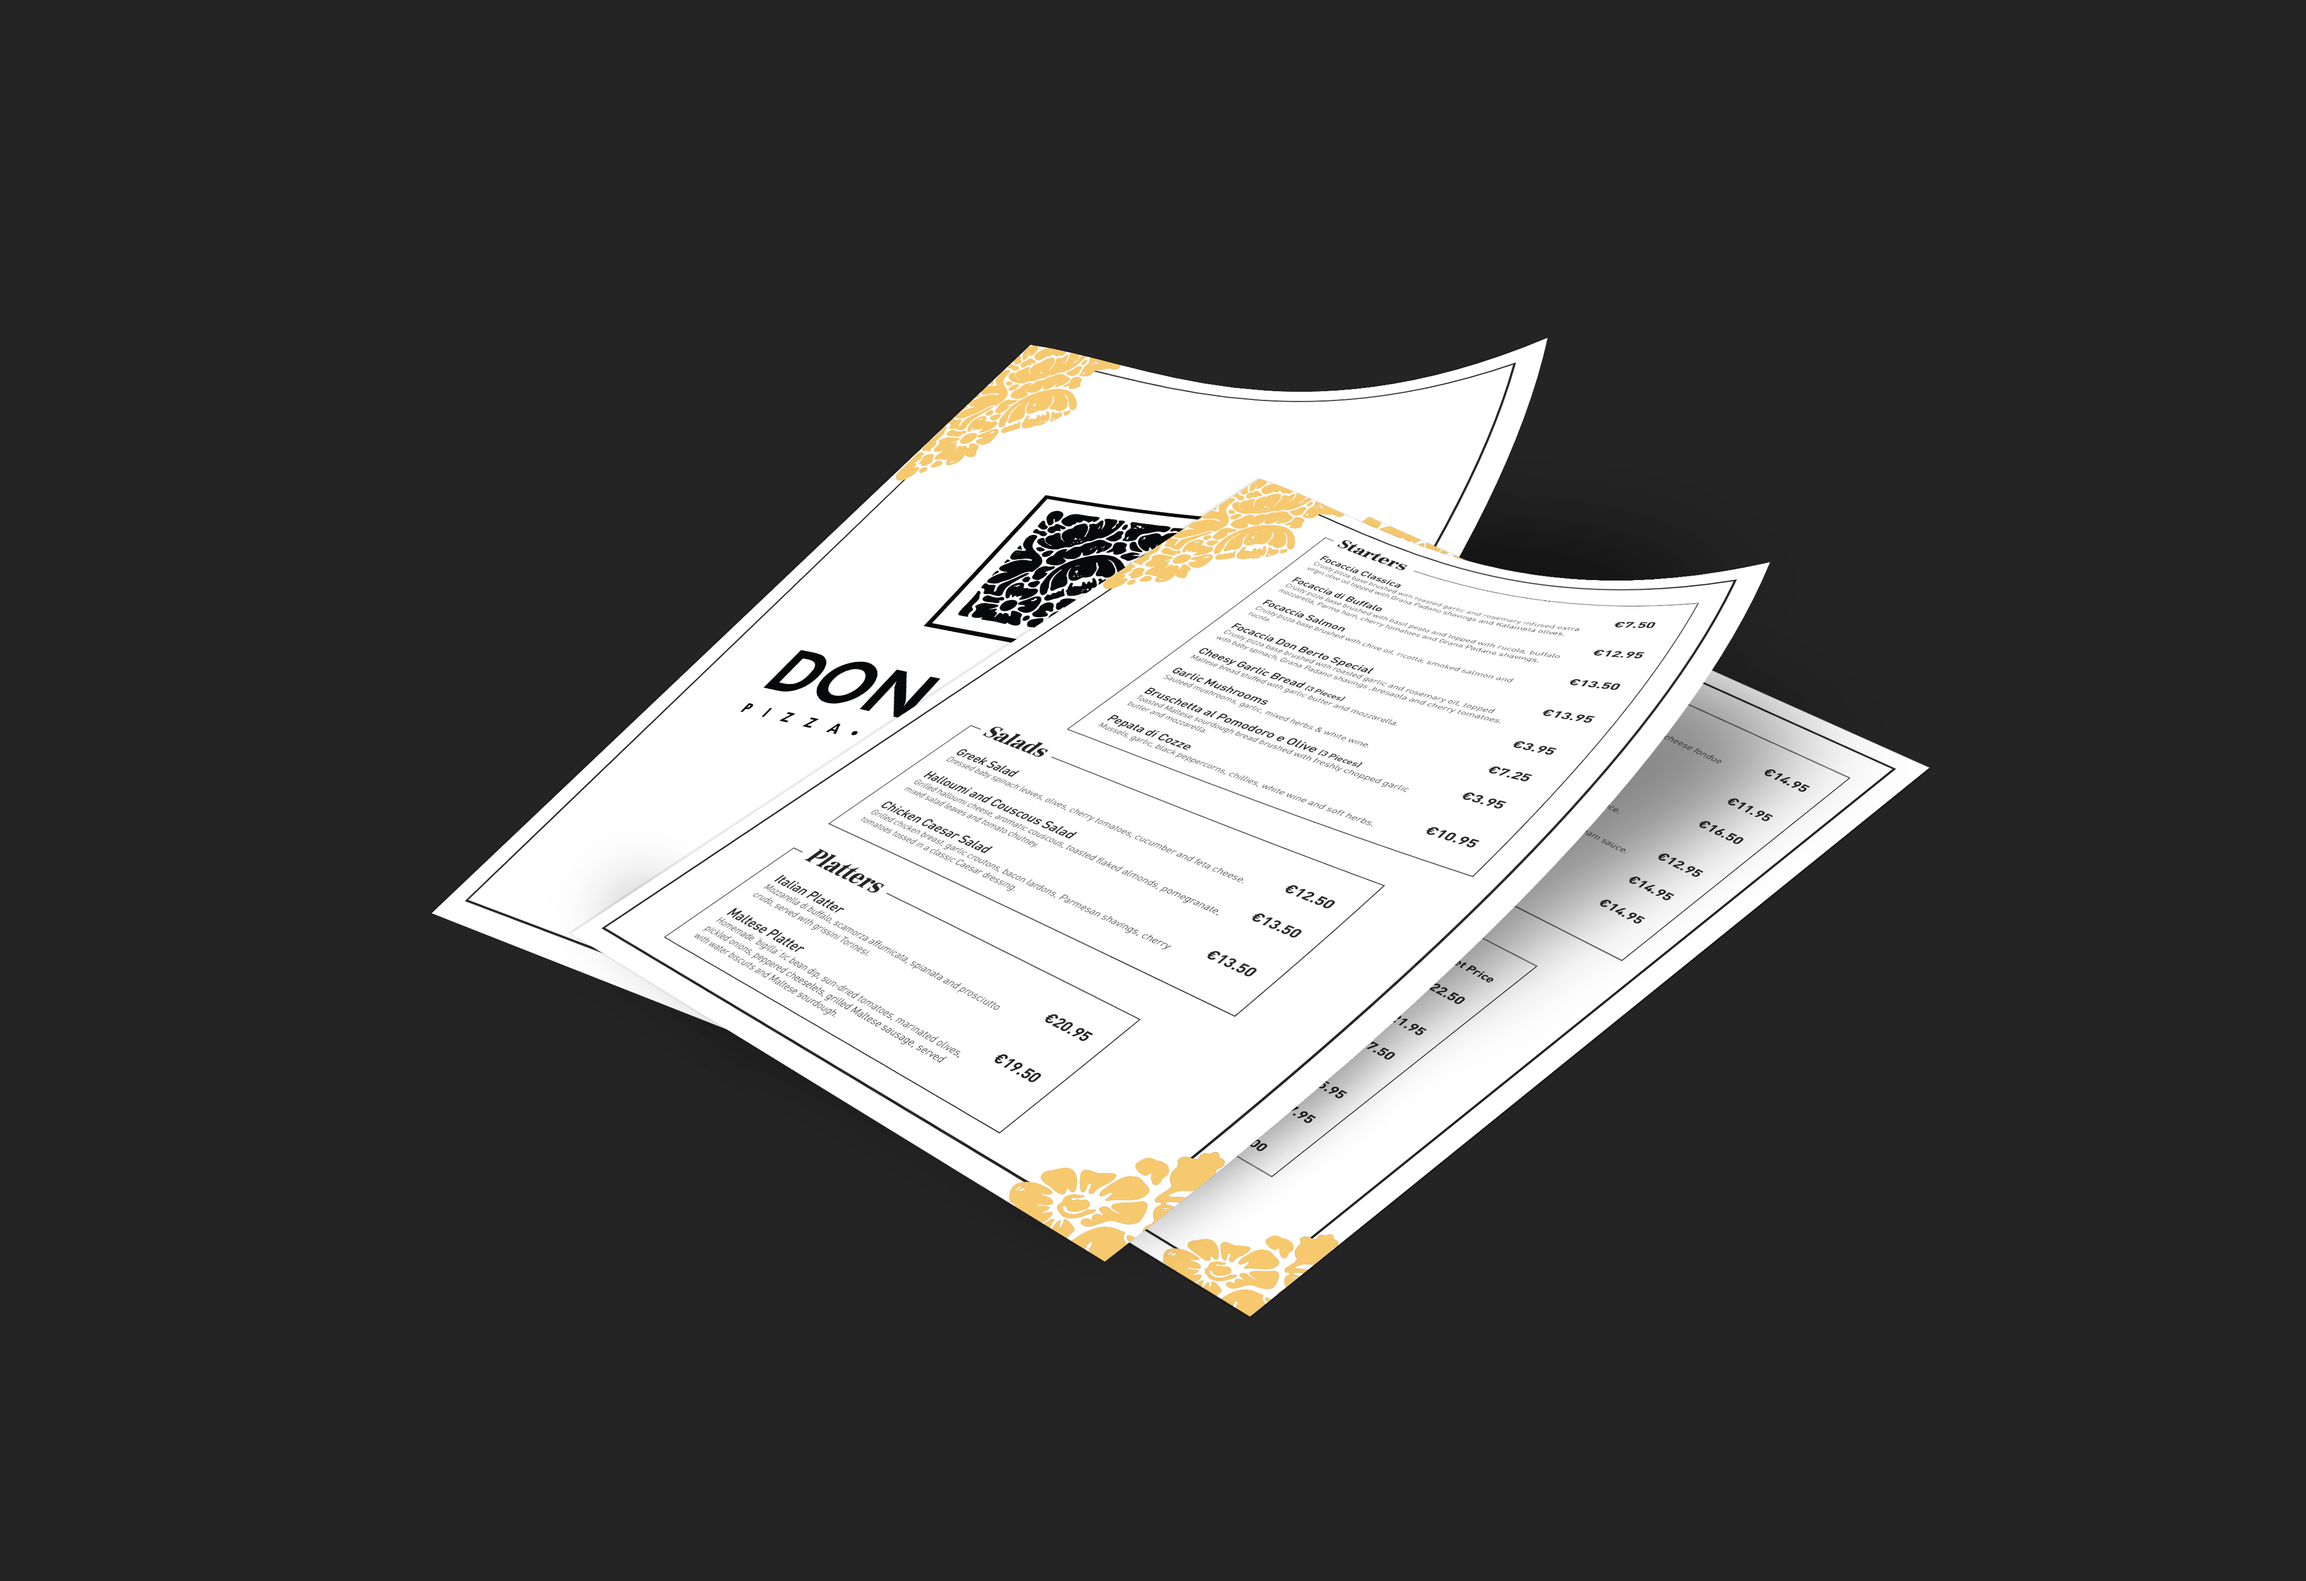
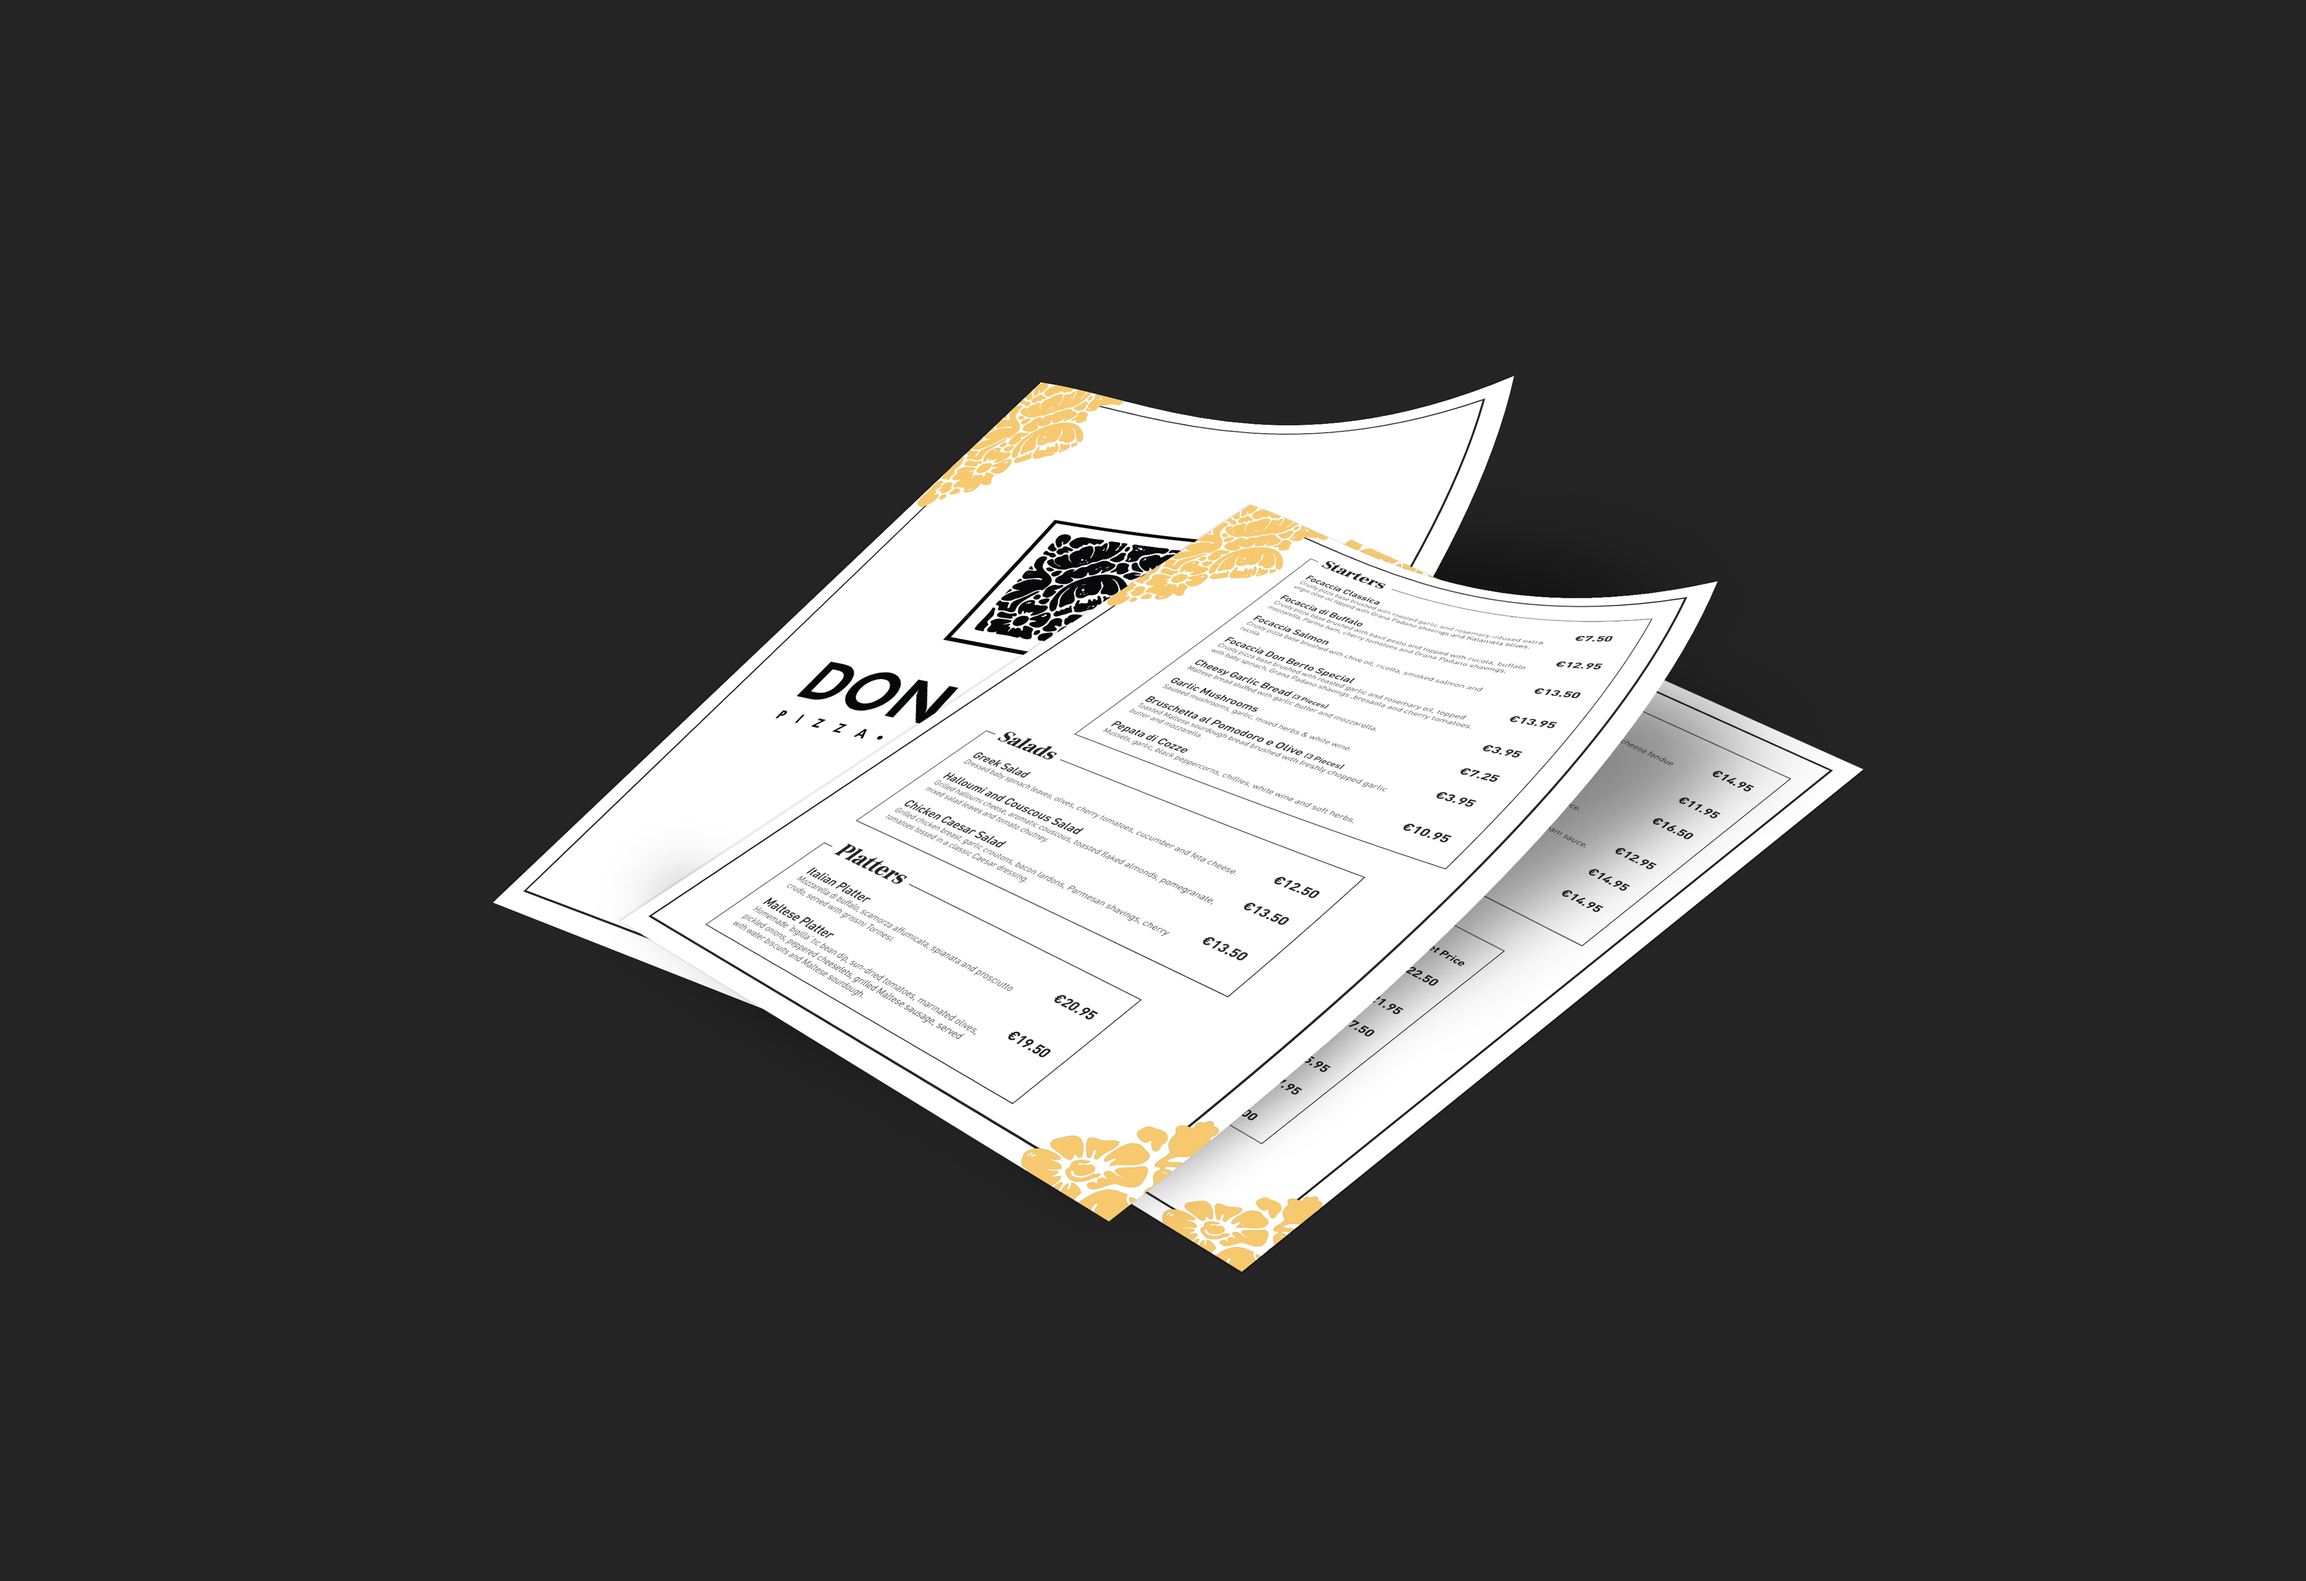
Newthumbs

Changed region(s): [[0.1862, 0.2168, 0.838, 0.8363]]

diff --git a/index.html b/index.html
@@ -132,7 +132,7 @@
             <div class="single_gallery">
                 <a href="Luigi_Rizzo_Portfolio_Breeze.html">
                     <div class="thumb">
-                        <img src="img/11.png" alt="Breeze Event Design for Social Media Thumbnail">
+                        <img src="img/NEW/Breeze.png" alt="Breeze Event Design for Social Media Thumbnail">
                     </div>
                     <div class="gallery_hover">
                         <div class="hover_inner">
@@ -162,7 +162,8 @@
             <div class=" single_gallery small_width">
                 <a href="Luigi_Rizzo_Portfolio_Don_Berto.html">
                     <div class="thumb">
-                        <img src="img/10.png" alt="Restaurant Graphic Design, Menu and Social Media Thumbnail">
+                        <img src="img/NEW/DonBerto1-02.png"
+                            alt="Restaurant Graphic Design, Menu and Social Media Thumbnail">
                     </div>
                     <div class="gallery_hover">
                         <div class="hover_inner">
@@ -176,7 +177,8 @@
             <div class=" single_gallery">
                 <a href="Luigi_Rizzo_Portfolio_Cardini.html">
                     <div class="thumb">
-                        <img src="img/12.png" alt="Restaurant Graphic Design, Menu and Social Media Thumbnail">
+                        <img src="img/NEW/Cardini-03.png"
+                            alt="Restaurant Graphic Design, Menu and Social Media Thumbnail">
                     </div>
                     <div class="gallery_hover">
                         <div class="hover_inner">
@@ -191,7 +193,7 @@
             <div class="single_gallery">
                 <div class="thumb">
                     <a href="Luigi_Rizzo_Portfolio_Kavallieri_Handball_Club.html">
-                        <img src="img/5.png" alt="Sport Design Social Media Thumbnail">
+                        <img src="img/NEW/Kavallieri-04.png" alt="Sport Design Social Media Thumbnail">
                         <!--1174x968px-->
                 </div>
                 <div class="gallery_hover">
